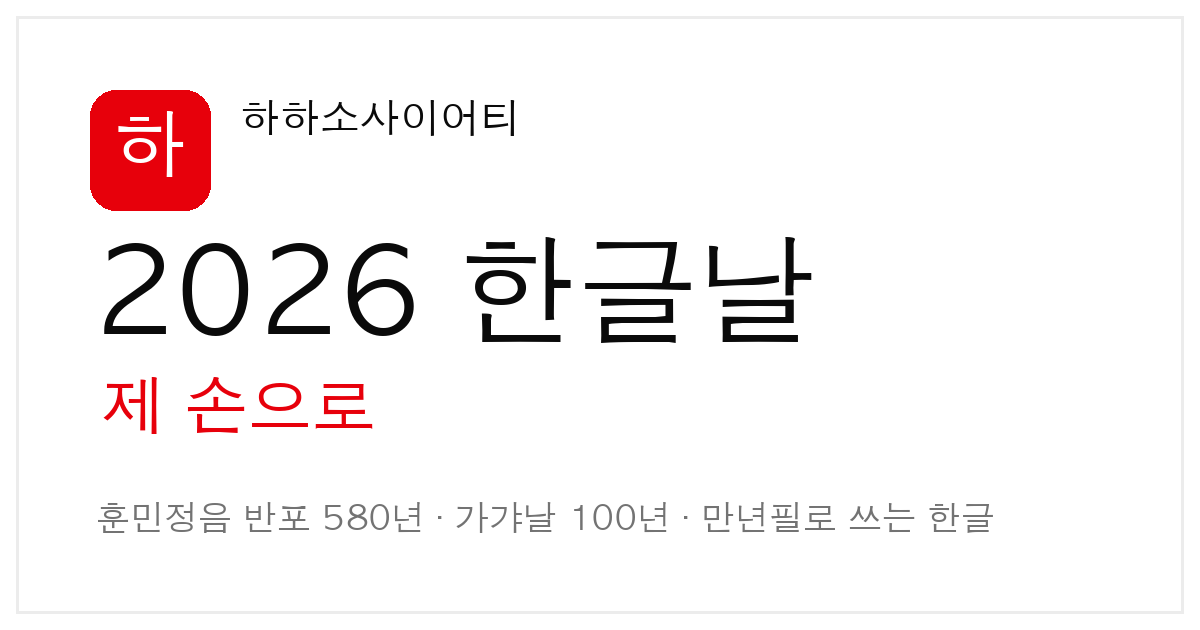
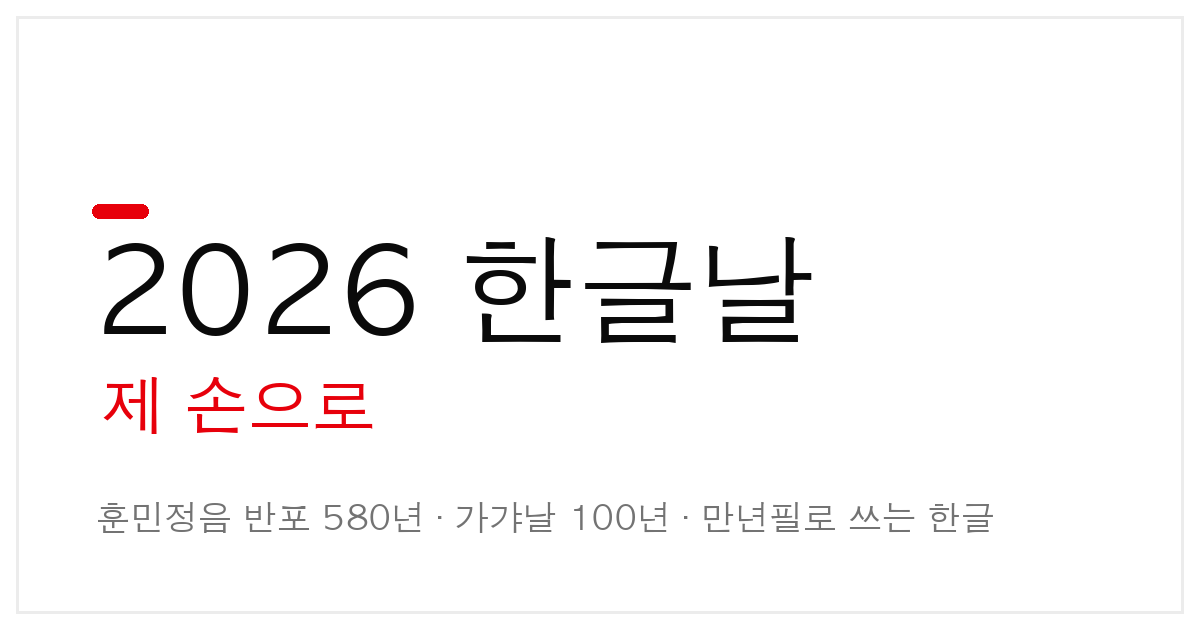
chore: pause font maker (keep menu), remove all 하하소사이어티 branding
- Font maker paused per request: hub rung3 + locker now route to a new
  "곧 열려요" screen (font_soon). font_intro/upload/result + the whole scan/build
  pipeline are kept intact in code for later re-enable. Display typefaces
  (나눔명조 옛한글 / EBS / Paperlogy) untouched.
- Remove brand everywhere: cover brandmark, card 낙관(하 seal + 하하소사이어티
  wordmark → neutral ember accent + campaign line only), <title>, og:site_name,
  regenerated og.png + icon-180.png without brand, share filenames.

Verified in-browser: no 하하소사이어티 in the app; cover/card/hub clean; rung3 →
곧 열려요; card footer = ember bar + 2026 한글날 + anniversary; no console errors.

Changed region(s): [[0.0617, 0.1206, 0.4317, 0.3619]]

diff --git a/frontend/index.html b/frontend/index.html
@@ -3,11 +3,10 @@
 <head>
 <meta charset="utf-8" />
 <meta name="viewport" content="width=device-width, initial-scale=1, viewport-fit=cover" />
-<title>2026 한글날 · 제 손으로 — 하하소사이어티</title>
+<title>2026 한글날 · 제 손으로</title>
 <meta name="description" content="훈민정음 반포 580년, 가갸날 100년. 만년필로 한 자 한 자, 제 손으로 쓰는 2026 한글날." />
 <meta name="theme-color" content="#e7000b" />
 <meta property="og:type" content="website" />
-<meta property="og:site_name" content="하하소사이어티" />
 <meta property="og:title" content="2026 한글날 · 제 손으로" />
 <meta property="og:description" content="훈민정음 580년·가갸날 100년. 만년필로, 제 손으로 쓰는 한글날." />
 <meta property="og:url" content="https://yourownfont.onrender.com/" />
@@ -354,7 +353,7 @@ function renderTextPNG(text,fam){
   lines.forEach((ln,i)=>x.fillText(ln,PAD,startY+i*lh));
   return c.toDataURL('image/png');}
 
-// ---- 공유 카드: 펜 손글씨 사진(또는 내 폰트 글) → 하하소사이어티 낙관이 박힌 공유 이미지 ----
+// ---- 공유 카드: 펜 손글씨 사진(또는 내 폰트 글) → 공유 이미지 ----
 const CAMPAIGN='2026 한글날 · 훈민정음 반포 580년 · 가갸날 100년';
 const loadImage=src=>new Promise((res,rej)=>{const i=new Image();i.onload=()=>res(i);i.onerror=rej;i.src=src;});
 function dataURLtoBlob(u){const [h,b]=u.split(',');const m=h.match(/:(.*?);/)[1],bin=atob(b),a=new Uint8Array(bin.length);for(let i=0;i<bin.length;i++)a[i]=bin.charCodeAt(i);return new Blob([a],{type:m});}
@@ -378,18 +377,17 @@ async function renderCard(opts){
     let size=96,lines=[],lh=140;for(;size>=40;size-=4){lines=wrap(size);lh=size*1.5;if(lines.length*lh<=ch)break;}
     x.fillStyle='#0a0a0a';x.font=`${size}px "${fam}"`;x.textAlign='center';x.textBaseline='middle';
     const sy=cy0+ch/2-(lines.length-1)*lh/2;lines.forEach((ln,i)=>x.fillText(ln,W/2,sy+i*lh));x.textAlign='left';x.textBaseline='top';}
-  const fy=H-190;                                   // 낙관 + 워드마크 + 캠페인
-  x.fillStyle='#e7000b';_roundRect(x,90,fy,84,84,18);x.fill();
-  x.fillStyle='#fff';x.font='900 46px "Paperlogy"';x.textAlign='center';x.textBaseline='middle';x.fillText('하',132,fy+45);
-  x.textAlign='left';x.fillStyle='#0a0a0a';x.font='900 40px "Paperlogy"';x.textBaseline='alphabetic';x.fillText('하하소사이어티',196,fy+40);
-  x.fillStyle='#737373';x.font='26px "Paperlogy"';x.fillText(CAMPAIGN,196,fy+78);
+  const fy=H-140;                                   // 브랜드 없이: 액센트 + 캠페인만
+  x.fillStyle='#e7000b';_roundRect(x,90,fy,54,10,5);x.fill();
+  x.fillStyle='#0a0a0a';x.font='900 36px "Paperlogy"';x.textAlign='left';x.textBaseline='top';x.fillText('2026 한글날',90,fy+28);
+  x.fillStyle='#737373';x.font='24px "Paperlogy"';x.fillText('훈민정음 반포 580년 · 가갸날 100년',90,fy+76);
   return c;}
 
 async function shareCard(canvas, filename){
-  const url=canvas.toDataURL('image/png'),file=new File([dataURLtoBlob(url)],filename||'haha-hangeul.png',{type:'image/png'});
+  const url=canvas.toDataURL('image/png'),file=new File([dataURLtoBlob(url)],filename||'hangeul-card.png',{type:'image/png'});
   if(navigator.canShare&&navigator.canShare({files:[file]})){
     try{await navigator.share({files:[file],text:CAMPAIGN});return 'shared';}catch(e){if(e&&e.name==='AbortError')return 'cancelled';}}
-  const a=document.createElement('a');a.href=url;a.download=filename||'haha-hangeul.png';document.body.appendChild(a);a.click();a.remove();return 'downloaded';}
+  const a=document.createElement('a');a.href=url;a.download=filename||'hangeul-card.png';document.body.appendChild(a);a.click();a.remove();return 'downloaded';}
 
 // 완성 카드 미리보기 + 저장/공유 오버레이
 function showCardResult(canvas, subtitle){
@@ -404,7 +402,7 @@ function showCardResult(canvas, subtitle){
   canvas.style.width=(canvas.width*sc)+'px';canvas.style.height=(canvas.height*sc)+'px';
   ov.querySelector('#cardWrap').appendChild(canvas);
   ov.querySelector('#cardClose').onclick=()=>ov.remove();
-  ov.querySelector('#cardShare').onclick=()=>shareCard(canvas,'하하소사이어티-한글날.png');
+  ov.querySelector('#cardShare').onclick=()=>shareCard(canvas,'한글날-카드.png');
 }
 window.renderCard=renderCard;window.shareCard=shareCard;window.showCardResult=showCardResult;
 
@@ -459,7 +457,6 @@ const SLIDES=[
 
 const STEPS={
   cover:()=>({crumb:'',html:`
-    <div class="brandmark" style="position:static;top:auto;left:auto;margin-bottom:2px">하하소사이어티<span style="color:var(--ember)">.</span></div>
     <div style="flex:1;display:flex;flex-direction:column;justify-content:center">
       <div class="cover-year old">2026</div><div class="cover-day old">한글날</div>
       <div class="muted" style="margin-top:22px;font-size:15px">훈민정음 반포 580년 · 가갸날 100년</div>
@@ -485,13 +482,23 @@ const STEPS={
         <div class="sub">오늘의 한 마디를 만년필로 써서 통하다. 첫 걸음.</div></button>
       <button class="choice" onclick="go('rung2')"><div class="ct"><span class="title old">ᄆᆞᄎᆞᆷ내 제 ᄠᅳ들</span><span class="num">한 문장</span></div>
         <div class="sub">마침내 제 뜻을 펴다. 한 문장·손편지를 써서 남긴다.</div></button>
-      <button class="choice" onclick="go('font_intro')"><div class="ct"><span class="title old">날로 ᄡᅮ메 편안킈</span><span class="num">한 벌</span></div>
-        <div class="sub">한 벌을 다 쓰면 내 손글씨가 폰트가 된다. 날로 씀에 편안케.</div></button>
+      <button class="choice" onclick="go('font_soon')"><div class="ct"><span class="title old">날로 ᄡᅮ메 편안킈</span><span class="num">곧 열려요</span></div>
+        <div class="sub">한 벌을 다 쓰면 내 손글씨가 폰트가 된다. 날로 씀에 편안케. <b>(준비 중)</b></div></button>
     </div>
     <div class="row" style="margin-top:14px;gap:10px">
       <button class="btn ghost block" onclick="go('wall')">🖼 함께 쓰는 벽</button>
       <button class="btn ghost block" onclick="go('locker')">📁 내 보관함</button>
     </div>`}),
+
+  // 폰트 만들기 일시정지 — 메뉴는 유지, 실제 플로우(font_intro/upload/result)는 코드로 보존
+  font_soon:()=>({crumb:'날로 ᄡᅮ메 편안킈',html:`
+    <div class="label old">날로 ᄡᅮ메 편안킈</div>
+    <div class="subcard" style="text-align:center;padding:30px 18px">
+      <div style="font-size:44px">🖋</div>
+      <div style="font-weight:700;margin-top:10px">폰트 만들기 · 곧 열려요</div>
+      <p class="muted" style="margin-top:8px;line-height:1.7">내 손글씨가 진짜 폰트가 되는 기능을 준비하고 있어요.<br>조금만 기다려 주세요.</p>
+    </div>
+    <div class="foot"><button class="btn ghost lg" onclick="go('hub')">돌아가기</button></div>`}),
 
   font_intro:()=>({crumb:'날로 ᄡᅮ메 편안킈 › 폰트 만들기',html:`
     <div class="label">폰트 만들기 · 이렇게 진행돼요</div>
@@ -650,10 +657,10 @@ const WIRE={
     const b=el.querySelector('#lockerBody');
     (async()=>{const rec=await getMyFont();
       if(!rec){b.innerHTML=`<div class="muted">아직 만든 폰트가 없어요. 한 벌을 다 쓰면 내 손글씨가 폰트가 됩니다.</div>
-        <div class="foot"><button class="btn primary lg" onclick="go('font_intro')">내 손글씨 폰트 만들기 →</button></div>`;return;}
+        <div class="foot"><button class="btn primary lg" onclick="go('font_soon')">내 손글씨 폰트 만들기 →</button></div>`;return;}
       b.innerHTML=`<div class="subcard"><div style="font-weight:700">${esc(rec.family||'내 손글씨')} <span class="muted">· ${rec.fmt||'ttf'}</span></div>
         <div id="lockPrev" style="font-size:34px;margin-top:10px;line-height:1.5">내 손글씨로 쓰는 한글 0123</div></div>
-        <div class="foot actions"><button class="btn primary lg" id="lockCard">✍ 내 폰트로 카드 쓰기</button><button class="btn ghost" onclick="go('font_intro')">다시 만들기</button></div>`;
+        <div class="foot actions"><button class="btn primary lg" id="lockCard">✍ 내 폰트로 카드 쓰기</button><button class="btn ghost" onclick="go('font_soon')">다시 만들기</button></div>`;
       try{await ensureMyFont();el.querySelector('#lockPrev').style.fontFamily=`"${rec.alias}"`;}catch(e){}
       el.querySelector('#lockCard').onclick=()=>composeInMyFont(async(_d,text)=>{showCardResult(await renderCard({text,fontAlias:rec.alias,pillar:'날로 ᄡᅮ메 편안킈',caption:'내 손글씨 폰트'}),'내 폰트 · 공유 카드');});
     })();
